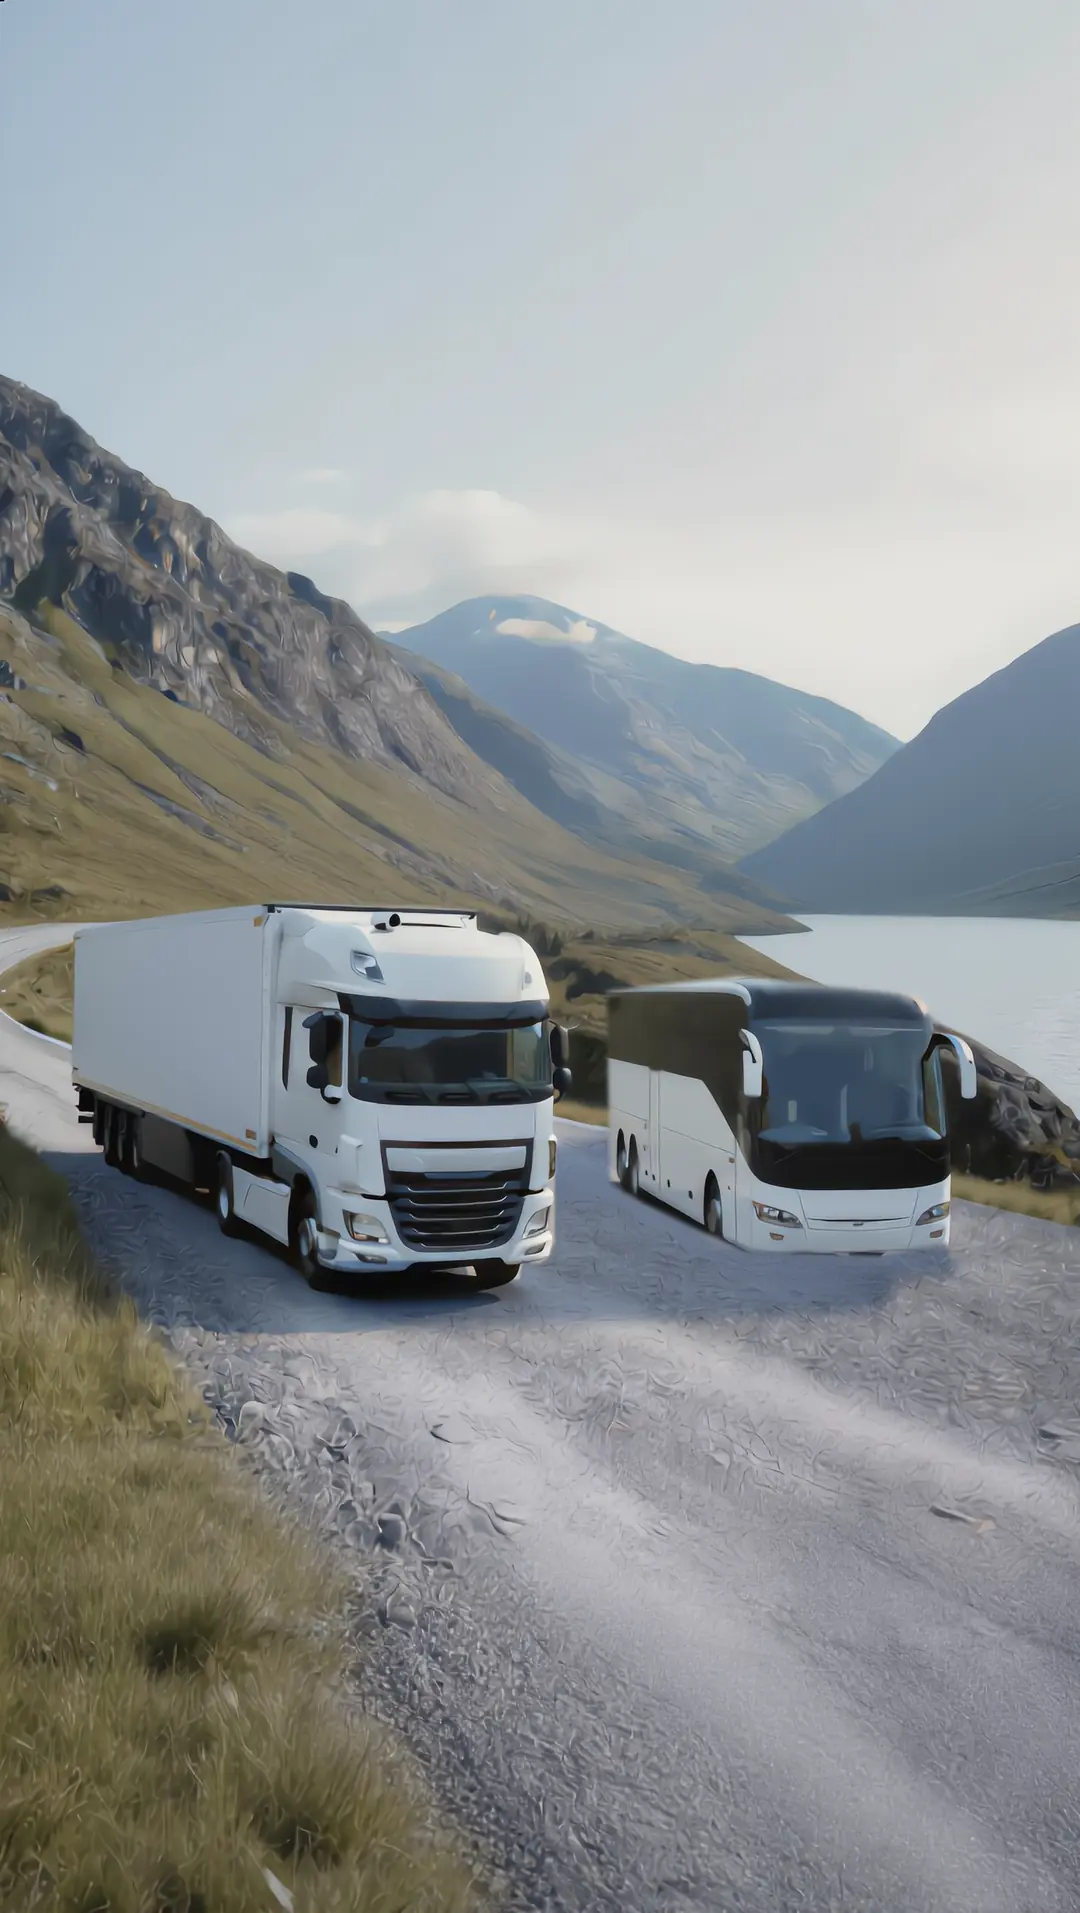
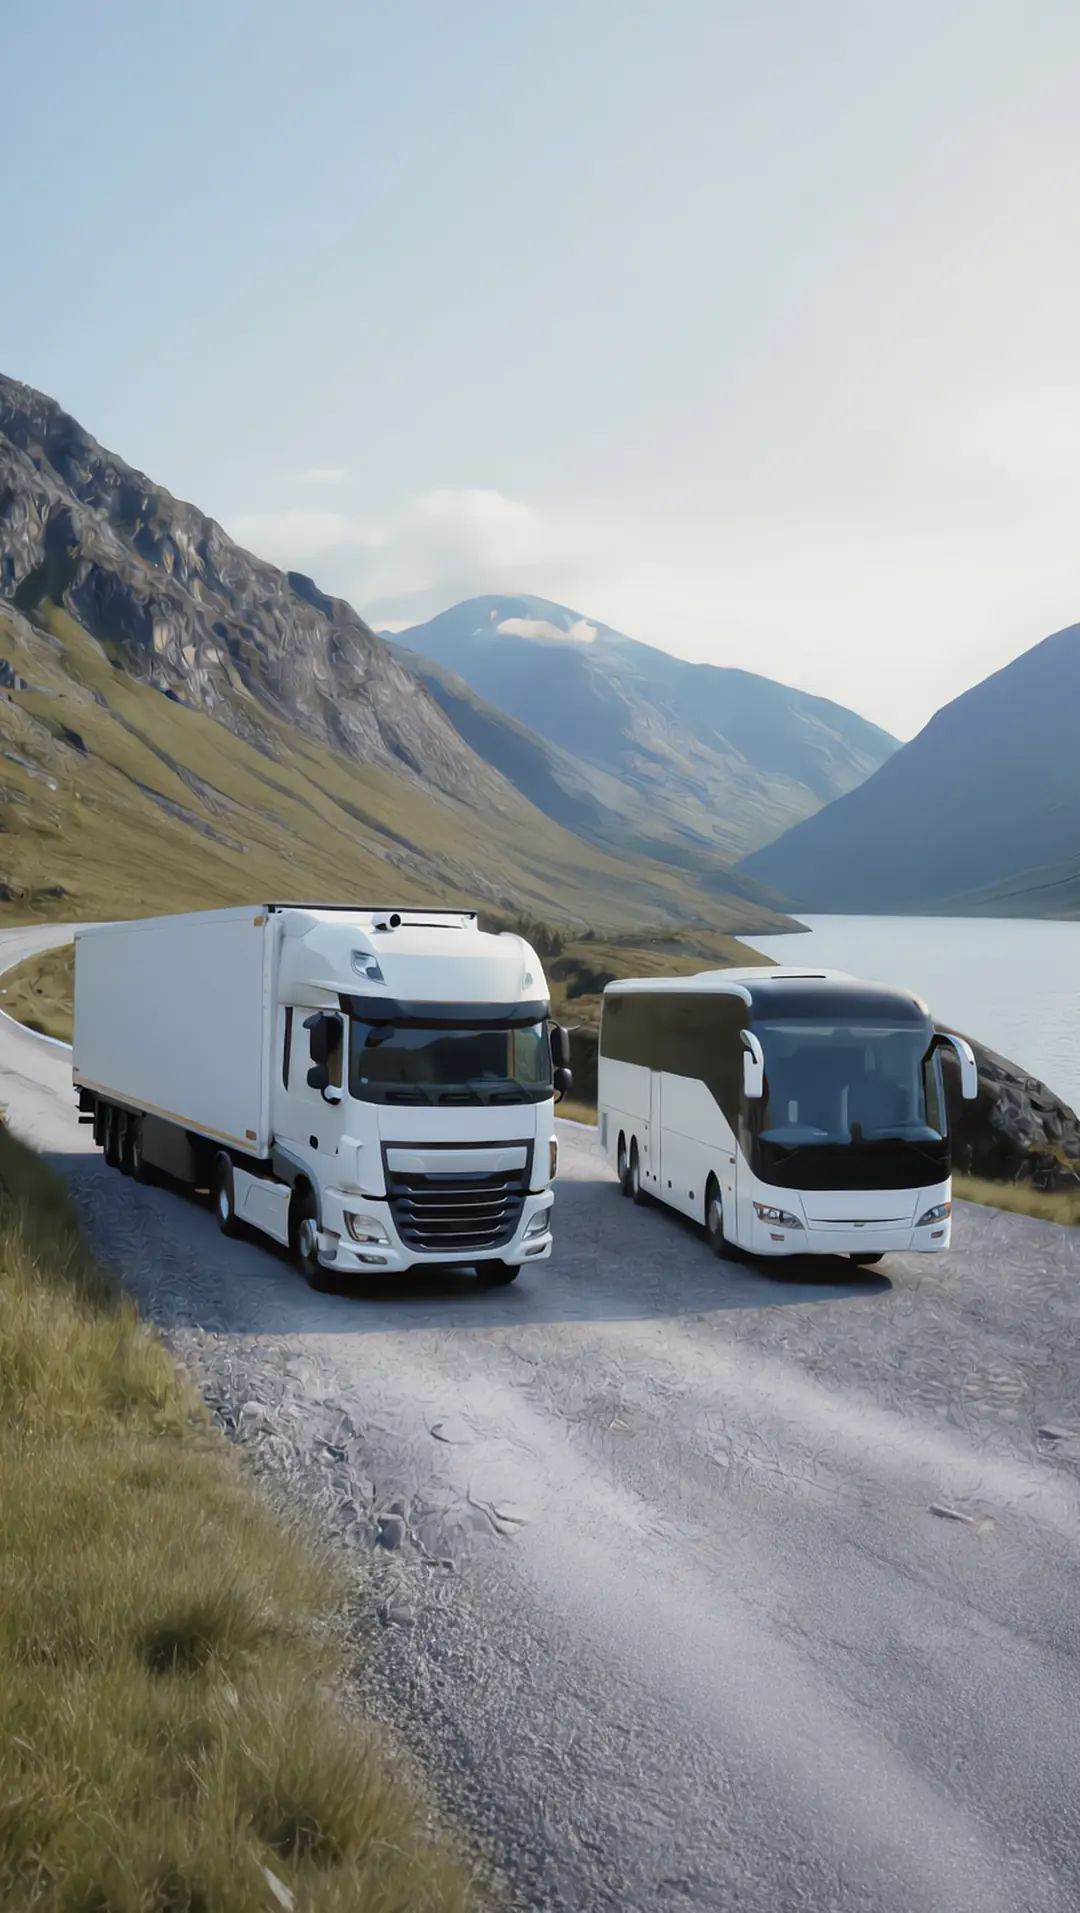
Build the vertical /choose/ layers from the single common photo
Pasting pieces of different renders into the common frame kept leaving light
strips around the vehicles and a badly cut bus outline. Now, as on desktop,
every layer starts from one coherent frame: intro-mobile-photo.png, upscaled
and fitted (1.8631/1.8705, -6/-16.5), which already has the right bus shadow
and clean vehicle edges.

- truck layer: only the bus, its shadow and the road around it come from
  intro-mobile-only-truck
- bus layer: only the truck area comes from intro-mobile-only-bus, with the
  AI-drawn rectangle shadow replaced by road and a soft bus shadow of the
  same shape and tint as in the common photo, fading with distance
- headlights: light added from the lit renders, as before

Claude-Session: https://claude.ai/code/session_01QnLGxmMJTS6H4BxBkXsJMw

diff --git a/CLAUDE.md b/CLAUDE.md
@@ -112,14 +112,14 @@
   в `choose.js` (размер кадра, кадрирование `pos`, рамки `boxes`); нижний слой выбирает браузер через `<picture>`,
   остальные слои `choose.js` грузит из `data-h` / `data-v`. Поворот телефона переключает набор на лету.
   Наведения на телефоне нет: нажатие на машину сразу запускает сценарий.
-- Вертикальные исходники: `intro-mobile-only-truck.png`, `intro-mobile-only-bus.png` (совпадают между собой),
-  `intro-mobile-photo.png` (общий кадр 832×1472 — по нему сняты форма и цвет тени автобуса). Тень автобуса
-  нейросеть в «только автобусе» нарисовала плоским прямоугольником без фактуры, поэтому скрипт рисует её заново:
-  мягкая синеватая полоса + контактная тень под днищем, одинаковая в общем кадре и в слое «только автобус».
-  На месте фуры в слое «только автобус» дорога взята из «только фуры» правее и ниже (тот же гравий).
-  Фары — из кадров генератора `intro-mobile-truck-light.png` / `intro-mobile-bus-light.png` (подогнаны масштабом
-  и сдвигом): на слои без фар добавляется только прибавка света в зоне фар и дороги перед машиной, как на ПК.
-  Результат — `intro-mobile-*-updated.png`.
+- Вертикальные исходники: `intro-mobile-photo.png` (общий кадр 832×1472), `intro-mobile-only-truck.png`,
+  `intro-mobile-only-bus.png`, `intro-mobile-truck-light.png`, `intro-mobile-bus-light.png` (1536×2720).
+  Как на ПК, все слои строятся от ОДНОГО цельного кадра — `intro-mobile-photo.png` (увеличен и подогнан масштабом
+  и сдвигом): в нём правильная тень автобуса и чистые края машин. Склейки из разных кадров давали светлые полосы
+  и «криво вырезанный» автобус — не возвращать. В «только фуре» заменена лишь область автобуса и его тени,
+  в «только автобусе» — лишь область фуры (дорога без нарисованной нейросетью тени-прямоугольника + мягкая тень
+  автобуса той же формы и цвета, что на общем кадре, к дальнему концу прозрачнее). Фары — прибавка света из кадров
+  с горящими фарами. Общий кадр мягче остальных: если появится `intro-mobile-photo.png` в 1536×2720, станет резче.
 - `build.js` дописывает к картинкам `/choose/` `?v=<хэш>`: после пересборки кадров браузер не покажет старые из кэша.
 - Звук: `src/choose/media/engine-truck.mp3` и `engine-bus.mp3`. Подключаются, только если файл есть: `build.js`
   записывает найденные в `data-sounds`. Играют только по клику/нажатию; при `prefers-reduced-motion` — без звука
